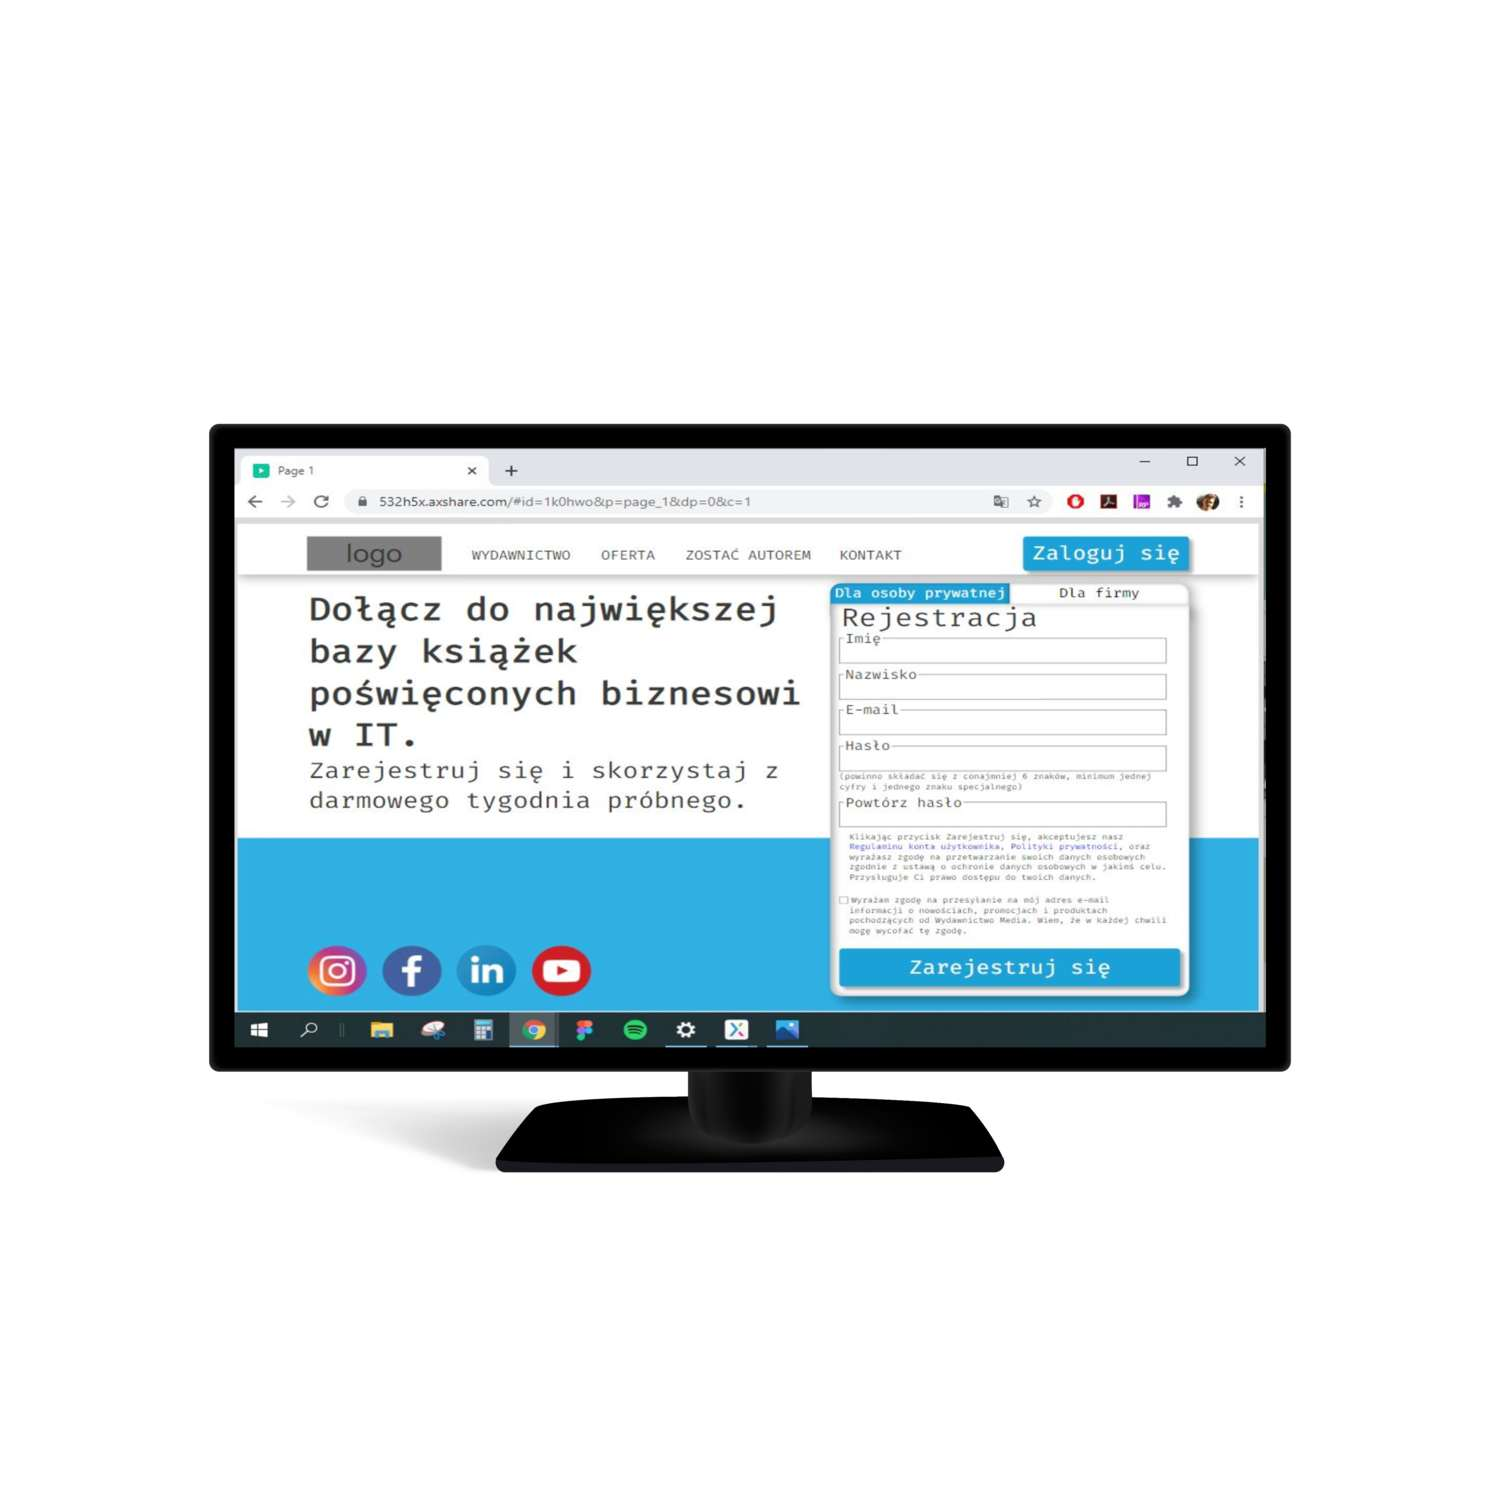
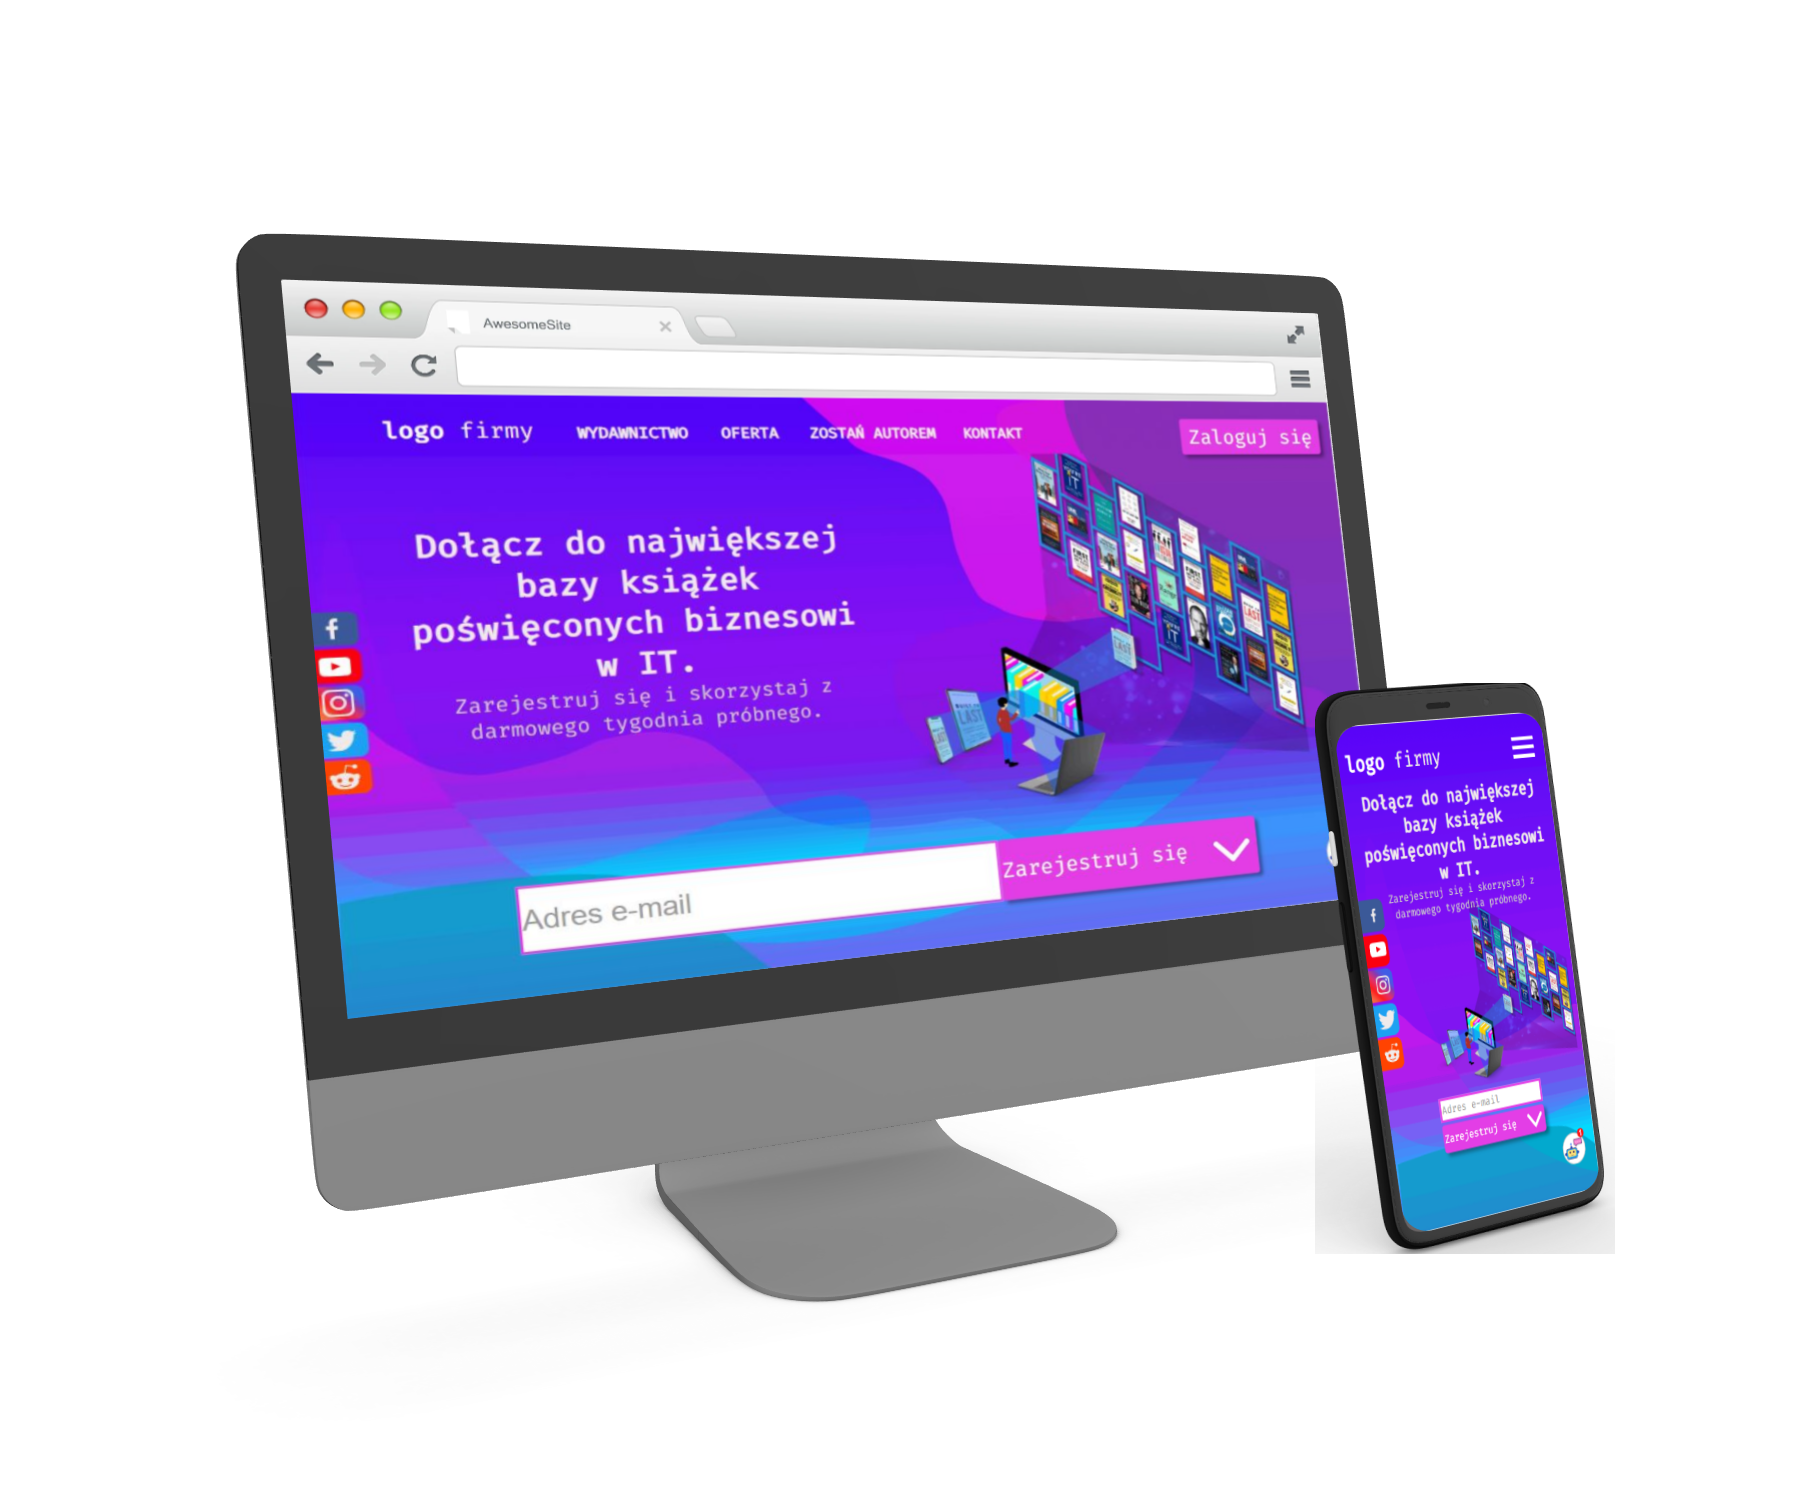
update for library

diff --git a/portfolio-single-biblioteka-pl.html b/portfolio-single-biblioteka-pl.html
@@ -163,7 +163,7 @@
             <div class="nk-portfolio-single">
                     <a target="_blank" href="https://532h5x.axshare.com/">
                     <div style="text-align: center;">
-                        <img class="nk-img-fit" src="assets/images/biblioteka-big.png">
+                        <img class="nk-img-fit" src="assets/images/biblioteka-big.gif">
                     </div>
                     </a>
             </div> 
@@ -188,8 +188,28 @@
                     <div class="nk-portfolio-info">
                         <div class="nk-portfolio-text">
                             <h3 class="dispay-5">O PROTOTYPIE</h3>
-                            <p>Landing Page z rejestracją do biblioteki został stworzony w ramach wyzwania ze strony <a target="_blank" href = "https://zebza.net/">https://zebza.net/</a>. Został stworzony w ramach ćwiczenia i poszerzenia swojego portfolio.
-                                Przedstawiony interfejs jest iwyłącznie Landing Page-em - nie zawiera żadnych innych podstron, ani możliwości logowania.</p>
+                            <p> 
+                                Landing Page z rejestracją ostał stworzony w ramach ćwiczenia i poszerzenia swojego     portfolio. Przedstawiony interfejs jest iwyłącznie Landing Page-em - nie zawiera żadnych innych podstron, ani możliwości logowania. Interfejs jest responsywny - stworzyłem wersje aplikacji webowej na telefon iPhone 8 oraz wersje przeglądarki internetowej na ekran wielkości 1366 x 768.<br>
+                                Tworząc powyższy interfest skupiłem się na projektowaniu graficznym projektu oraz przemyślanym ułożeniem elementów chcąc stworzyć intuicyjne oraz przyjemne dla oka rozwiązanie.
+                                W prototypie zawarłem komunikaty błędu oraz pewne interakcje chcąc pokazać jak widzę intuicyjne rozwiązanie rejestracji dla użytkowników.
+
+                                <h3 class="dispay-5"> Dlaczego taki design?</h3>
+                                <p> 
+                                    <h6>Ułożenie ikon mediów społecznościowych:</h6>
+                                    Użytkownicy stron w języku Polskim przeglądają stronę od lewej do prawej - ze względu na to, że jako osobie odpowiedzialnej za stronę zależy na tym, żeby linki społecznościowe nie umknęły użytkownikowi umieściłem je w miejscu którego na pewno nie ominie czytając treści ze strony.<br><br>
+                                    <h6>Położenie chatbot-a:</h6>
+                                    Media społecznościowe nauczyły użytkowników internetu do poszukiwania chatu w prawym dolnym rogu. Chcąc, żeby użytkownicy znaleźli to czego szukają umieściłem go dokładnie tam. <br><br>
+                                    <h6>Elementy klikalne: </h6>
+                                        Elementy podzieliłem zasadniczo na 2 grupy: <br>
+                                        1) Te z nawigacji głównej - białe, po najechaniu zmieniające kolor na niebieski. <br>
+                                        2) Te powiązanie z rejestracją, logowaniem, wysyłaniem wiadomości - różowe przyciski<br> 
+                                        Grupy zostały stworzone w celu ułatwienia użytkownikom nawigację po stronie.<br><br>
+                                    <h6>Kolejność ułożenia elementów na stronie:</h6>
+                                        Przed polem rejestracji przedstawiłem potencjalnemu użytkownikowi wartość jaką daje serwis (z możliwością przejścia od razu do rejestracji) i 3 kolejne, które mają za zadanie utwierdzić użytkownika, że ten serwis to dobry wybór.<br><br>
+                                    <h6>Krój czcionki</h6>
+                                        Biblioteka miała dotyczyć Biznesu w IT - dlatego wybrałem czcionkę "Fira Coda", która jest krojem programistycznym.
+                                </p>
+                            </p>
                         </div>
                     </div>
                 </div>

diff --git a/portfolio-single-biblioteka-eng.html b/portfolio-single-biblioteka-eng.html
@@ -163,7 +163,7 @@
             <div class="nk-portfolio-single">
                     <a target="_blank" href="https://532h5x.axshare.com/">
                     <div style="text-align: center;">
-                        <img class="nk-img-fit" src="assets/images/biblioteka-big.png">
+                        <img class="nk-img-fit" src="assets/images/biblioteka-big.gif">
                     </div>
                     </a>
             </div> 
@@ -188,10 +188,30 @@
                     <div class="nk-portfolio-info">
                         <div class="nk-portfolio-text">
                             <h3 class="dispay-5">About the prototype</h3>
-                            <p>Prototype has bee  created as answer to challenge from https://zebza.net/.
-                                It's been created as an exercise and to extend my portfolio.
-                                
-                                Created interface is includes only Landing Page - it doesn't contain other pages or possibility to sign in.</p>
+                            <p>
+                                Landing Page with signing up form was created as exercise and to extend my portfolio.
+                                Shown interface is only Landing Page - it doesn't contain any subpages and ability to sign in. Prototype is responsive - I made Web App and desktop versio (1366 x 768). <br>
+                                During work I focused on graphic design and putting elements in the right place for users.
+                                In prototype I included error messages and some interactions to show how my proposition for intuitive solution on sign up for users.
+
+                                <h3 class="dispay-5"> Why design like this?</h3>
+                                <p> 
+                                    <h6>Arragement of social media icons:</h6>
+                                    Polish language users read pages from left to right - that's why I put the icons on left side, so that they won't miss it.<br><br>
+                                    <h6>Chatbot placement:</h6>
+                                    Social media taught users that the chat is in right bottom corner - 
+                                    If the user was looking for chat - he would find it where he was looking for it.
+                                    <h6>Clickable elements: </h6>
+                                        I devided them into 2 groups: <br>
+                                        1) Main Navigation - white, if mouse over - blue <br>
+                                        2) Singing up, signing in, Sending something - różowe przyciski<br> 
+                                        Groups were created to make it easier to use website for users.<br><br>
+                                    <h6>Elements stacking order on webpage:</h6>
+                                        Over the sign up button I showed a value that is given by the Library. (with ability to swipe immediatly to sign up form) and 3 more values to confirm the user that this service is the right choice. <br><br>
+                                    <h6>Typeface</h6>
+                                        Library is focused on IT Business - that's why I chose "Fira Coda" typeface - which is font for programmers.
+                                </p>
+                            </p>
                         </div>
                     </div>
                 </div>
